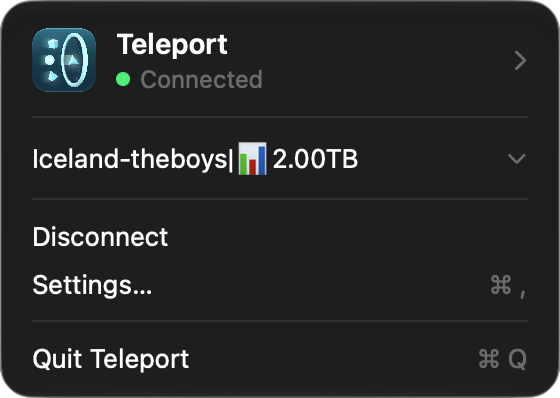
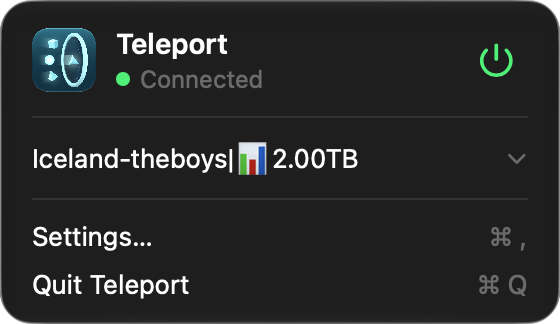
feat: move menu connection control into header (#62)

diff --git a/teleport/MenuBarView.swift b/teleport/MenuBarView.swift
@@ -5,7 +5,6 @@ struct MenuBarView: View {
     @Environment(\.openWindow) private var openWindow
     @ObservedObject private var appIcons = AppIconStore.shared
     @ObservedObject var viewModel: AppViewModel
-    @Binding var navigation: SettingsNavigation
 
     var body: some View {
         VStack(alignment: .leading, spacing: 0) {
@@ -29,42 +28,49 @@ struct MenuBarView: View {
     }
 
     private var header: some View {
-        Button {
-            navigation.select(.portals)
-            showSettings()
-        } label: {
-            HStack(spacing: 10) {
-                Image(nsImage: appIcons.image(for: appIcons.selectedIcon) ?? NSApp.applicationIconImage)
-                    .resizable()
-                    .frame(width: 32, height: 32)
-                    .accessibilityHidden(true)
+        HStack(spacing: 10) {
+            Image(nsImage: appIcons.image(for: appIcons.selectedIcon) ?? NSApp.applicationIconImage)
+                .resizable()
+                .frame(width: 32, height: 32)
+                .accessibilityHidden(true)
 
-                VStack(alignment: .leading, spacing: 2) {
-                    Text("Teleport")
-                        .font(.system(size: 14, weight: .semibold))
-                    HStack(spacing: 5) {
-                        Circle()
-                            .fill(headerStatusColor)
-                            .frame(width: 7, height: 7)
-                            .accessibilityHidden(true)
-                        Text(headerStatusText)
-                            .font(.system(size: 12))
-                            .foregroundStyle(.secondary)
-                    }
+            VStack(alignment: .leading, spacing: 2) {
+                Text("Teleport")
+                    .font(.system(size: 14, weight: .semibold))
+                HStack(spacing: 5) {
+                    Circle()
+                        .fill(headerStatusColor)
+                        .frame(width: 7, height: 7)
+                        .accessibilityHidden(true)
+                    Text(headerStatusText)
+                        .font(.system(size: 12))
+                        .foregroundStyle(.secondary)
                 }
-
-                Spacer()
-                Image(systemName: "chevron.right")
-                    .font(.system(size: 11, weight: .semibold))
-                    .foregroundStyle(.secondary)
             }
-            .padding(.horizontal, 8)
-            .padding(.vertical, 5)
-            .contentShape(Rectangle())
+
+            Spacer(minLength: 8)
+
+            Button {
+                if viewModel.canDisconnect {
+                    viewModel.disconnect()
+                } else {
+                    viewModel.connect()
+                }
+            } label: {
+                Image(systemName: "power")
+                    .font(.system(size: 16, weight: .semibold))
+                    .foregroundStyle(viewModel.isConnected || viewModel.proxyPhase == .enabled ? Color.green : .primary)
+                    .frame(width: 32, height: 32)
+                    .contentShape(Circle())
+            }
+            .buttonStyle(MenuBarPowerButtonStyle())
+            .disabled(!viewModel.canConnect && !viewModel.canDisconnect)
+            .help(viewModel.canDisconnect ? "Disconnect" : "Connect")
+            .accessibilityLabel(viewModel.canDisconnect ? "Disconnect" : "Connect")
+            .accessibilityValue(headerStatusText)
         }
-        .buttonStyle(MenuBarRowStyle())
-        .accessibilityLabel("Teleport, \(headerStatusText)")
-        .accessibilityHint("Open portals")
+        .padding(.horizontal, 8)
+        .padding(.vertical, 5)
     }
 
     private var sectionDivider: some View {
@@ -148,23 +154,10 @@ struct MenuBarView: View {
 
     private var actionSection: some View {
         VStack(alignment: .leading, spacing: 0) {
-            Button {
-                if viewModel.canDisconnect {
-                    viewModel.disconnect()
-                } else {
-                    viewModel.connect()
-                }
-            } label: {
-                actionLabel(viewModel.canDisconnect ? "Disconnect" : "Connect")
-            }
-            .disabled(!viewModel.canConnect && !viewModel.canDisconnect)
-
             Button(action: showSettings) {
                 actionLabel("Settings…", shortcut: "⌘ ,")
             }
             .keyboardShortcut(",", modifiers: .command)
-
-            sectionDivider
 
             Button {
                 NSApplication.shared.terminate(nil)
@@ -197,6 +190,19 @@ struct MenuBarView: View {
         DispatchQueue.main.async {
             openWindow(id: "settings")
         }
+    }
+}
+
+private struct MenuBarPowerButtonStyle: ButtonStyle {
+    @Environment(\.isEnabled) private var isEnabled
+    @State private var isHovered = false
+
+    func makeBody(configuration: Configuration) -> some View {
+        let isHighlighted = isEnabled && (isHovered || configuration.isPressed)
+        return configuration.label
+            .background(Circle().fill(.primary.opacity(isHighlighted ? 0.25 : 0)))
+            .opacity(isEnabled ? 1 : 0.4)
+            .onHover { isHovered = $0 }
     }
 }
 
@@ -345,5 +351,5 @@ private struct ConnectionPickerSection: View, Equatable {
 }
 
 #Preview {
-    MenuBarView(viewModel: AppViewModel(), navigation: .constant(SettingsNavigation()))
+    MenuBarView(viewModel: AppViewModel())
 }

diff --git a/teleport/teleportApp.swift b/teleport/teleportApp.swift
@@ -84,7 +84,7 @@ struct TeleportApp: App {
 
     var body: some Scene {
         MenuBarExtra {
-            MenuBarView(viewModel: viewModel, navigation: $settingsNavigation)
+            MenuBarView(viewModel: viewModel)
         } label: {
             MenuBarIconView(
                 phase: viewModel.connectionPhase,
